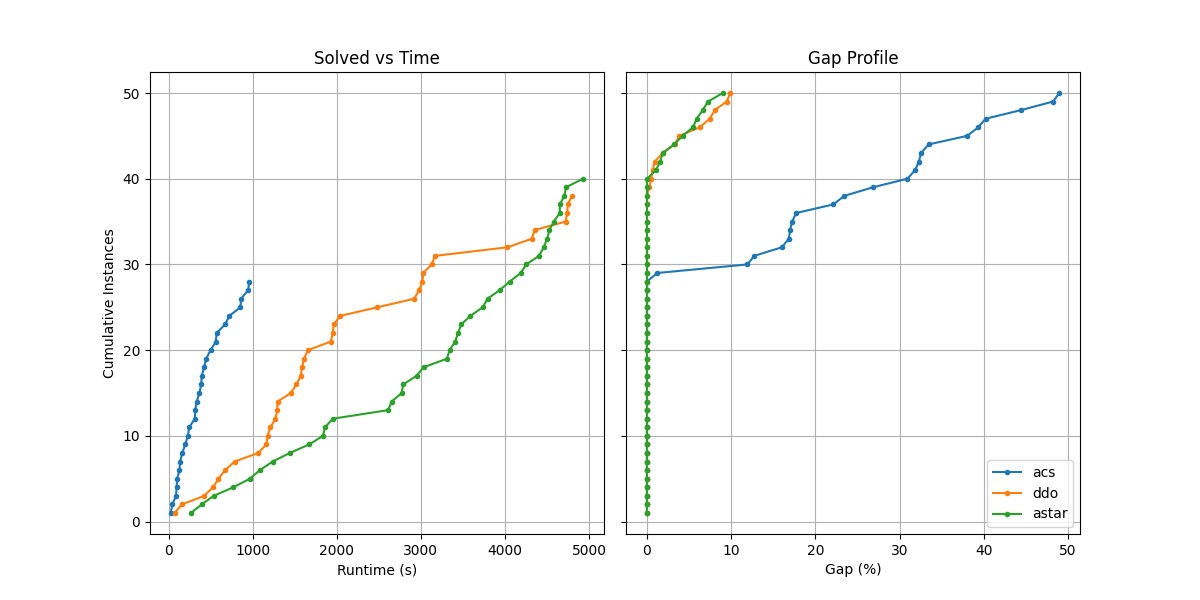
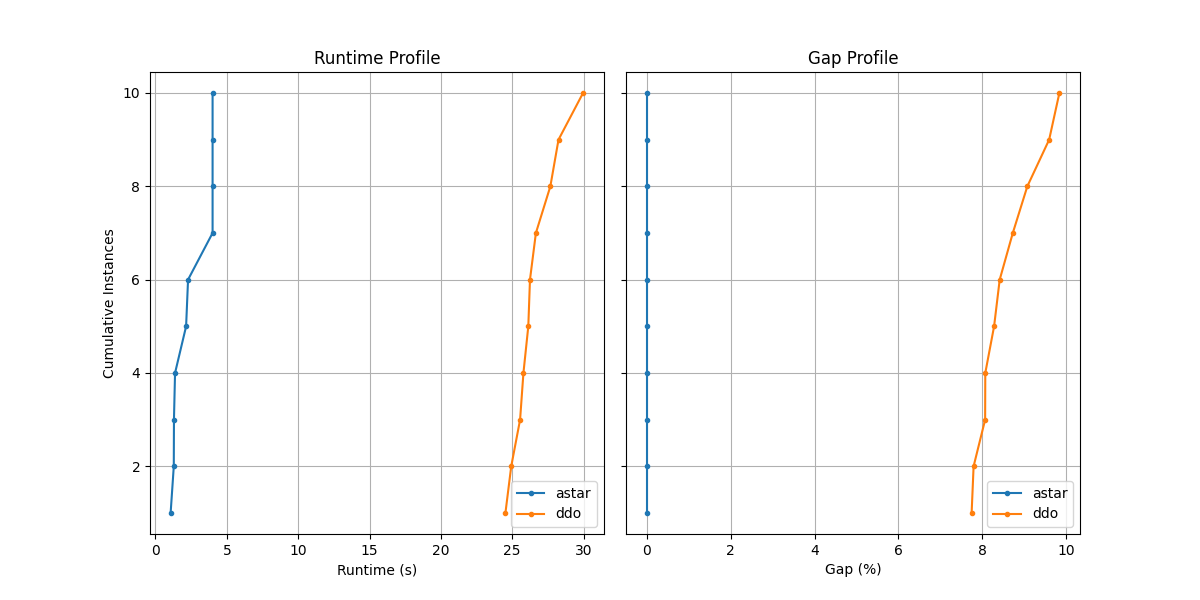
correct perf_gap.py

diff --git a/bench/visu/perf_gap.py b/bench/visu/perf_gap.py
@@ -1,65 +1,72 @@
+import argparse
+import os
+import sys
+
 import matplotlib.pyplot as plt
 import numpy as np
 import pandas as pd
 
-# Create dummy data
-data = []
-algos = ['acs', 'ddo', 'astar']
-n_instances = 50
+parser = argparse.ArgumentParser(description="Generate performance graphs from a CSV")
+parser.add_argument(
+    "data_file",
+    help="Path to the CSV file containing results"
+)
 
-for i in range(n_instances):
-    for algo in algos:
-        # Randomly decide result
-        # Scenario: ACS is fast but sometimes has gaps. DDO is slow but optimal.
-        if algo == 'acs':
-            gap = 0 if np.random.rand() > 0.5 else np.random.rand() * 50
-            time_val = np.random.rand() * 1000
-        else:
-            gap = 0 if np.random.rand() > 0.2 else np.random.rand() * 10
-            time_val = np.random.rand() * 5000
+args = parser.parse_args()
+data_file_path = args.data_file
 
-        data.append({
-            "Instance": f"inst_{i}",
-            "Algorithm": algo,
-            "Gap": gap,
-            "Time": time_val
-        })
+if not os.path.exists(data_file_path):
+    print(f"Error: The file '{data_file_path}' does not exist.")
+    sys.exit(1)
 
-df = pd.DataFrame(data)
+df = pd.read_csv(data_file_path)
 
-# --- Plotting Logic ---
+required_columns = ['Algorithm', 'Gap', 'Time']
+if not all(col in df.columns for col in required_columns):
+    print(f"Error: The CSV must contain columns: {required_columns}")
+    sys.exit(1)
+
+algos = df['Algorithm'].unique()
+
+print(f"Data loaded successfully. Algorithms found: {algos}")
+
 fig, (ax1, ax2) = plt.subplots(1, 2, sharey=True, figsize=(12, 6))
-# Remove space between plots
 plt.subplots_adjust(wspace=0.05)
 
-# Left Plot: Solved over Time
 for algo in algos:
-    subset = df[(df['Algorithm'] == algo) & (df['Gap'] == 0.0)].copy()
-    if subset.empty: continue
+    subset = df[df['Algorithm'] == algo].copy()
+
+    if subset.empty:
+        continue
+
     subset = subset.sort_values(by='Time')
     x = subset['Time'].values
     y = np.arange(1, len(subset) + 1)
-    # Append a starting point? Optional, usually standard plots just start at first point
+
     ax1.plot(x, y, label=algo, marker='.', linestyle='-')
 
 ax1.set_xlabel('Runtime (s)')
 ax1.set_ylabel('Cumulative Instances')
-ax1.set_title('Solved vs Time')
+ax1.set_title('Runtime Profile')
 ax1.grid(True)
+ax1.legend()
 
-# Right Plot: Gap Profile
 for algo in algos:
     subset = df[df['Algorithm'] == algo].copy()
-    if subset.empty: continue
+
+    if subset.empty:
+        continue
+
     subset = subset.sort_values(by='Gap')
     x = subset['Gap'].values
     y = np.arange(1, len(subset) + 1)
     ax2.plot(x, y, label=algo, marker='.', linestyle='-')
 
 ax2.set_xlabel('Gap (%)')
-# ax2.set_ylabel('Cumulative Instances') # Shared
 ax2.set_title('Gap Profile')
 ax2.grid(True)
 ax2.legend()
 
-plt.savefig('smic_combined_plot.png')
+output_filename = 'ks_combined_plot.png'
+plt.savefig(output_filename, transparent=True)
+print(f"Graph saved to: {output_filename}")

diff --git a/bench/visu/consolidate_results.py b/bench/visu/consolidate_results.py
@@ -64,7 +64,7 @@ def parse_result_files(folder_path):
                     # Extract values
                     status = match.group("status")
                     gap = float(match.group("gap"))
-                    time_val = float(match.group("time"))
+                    time_val = float(match.group("time")) / 1000
 
                     # Store in our list
                     data.append({
@@ -116,7 +116,7 @@ if os.path.exists(folder_path):
 
         # Optional: Save to CSV
         df_results.to_csv("smic_consolidated_results.csv", index=False)
-        print("\nSaved to ks_consolidated_results.csv")
+        print("\nSaved to smic_consolidated_results.csv")
     else:
         print("No valid data found.")
 else:

diff --git a/bench/visu/graph_time.py b/bench/visu/graph_time.py
@@ -34,5 +34,5 @@ if os.path.exists(data_file_path):
     plt.grid(True)
     plt.tight_layout()
 
-    plt.savefig("smic_graph_time.png")  # save image
+    plt.savefig("smic_graph_time.png", transparent=True)  # save image
     plt.show()
